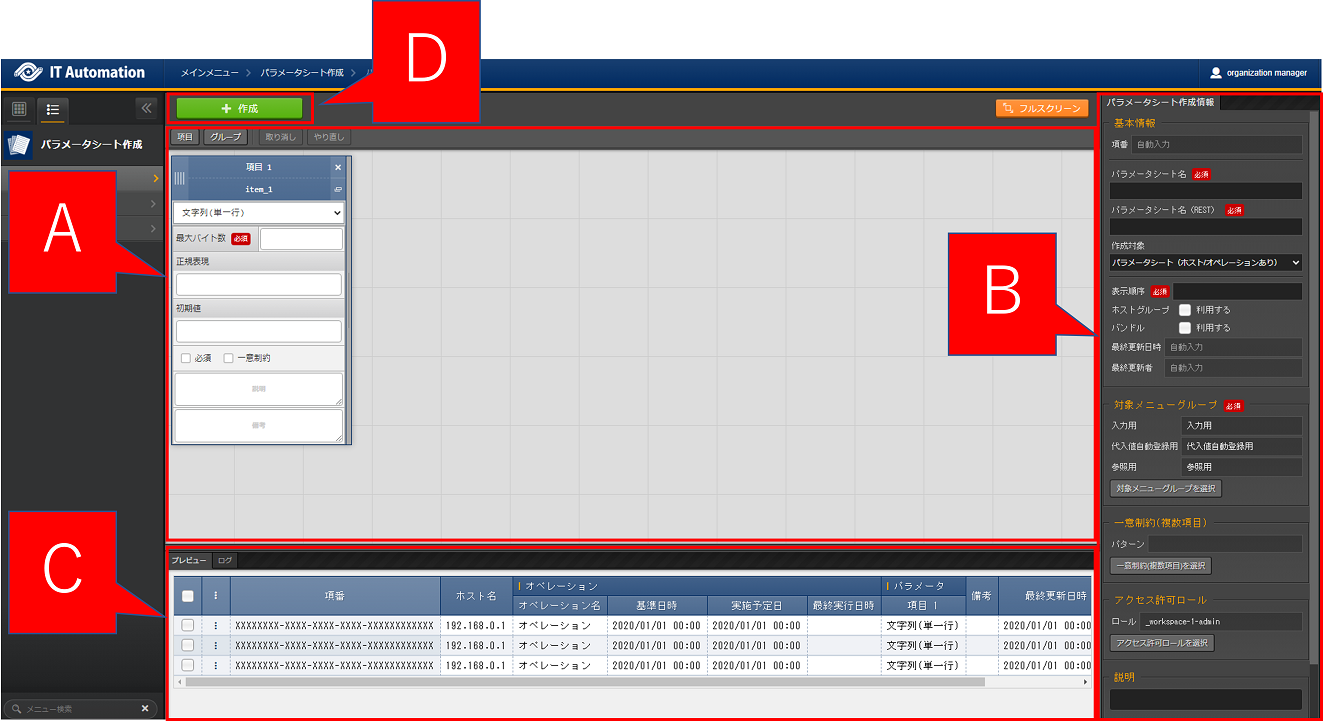
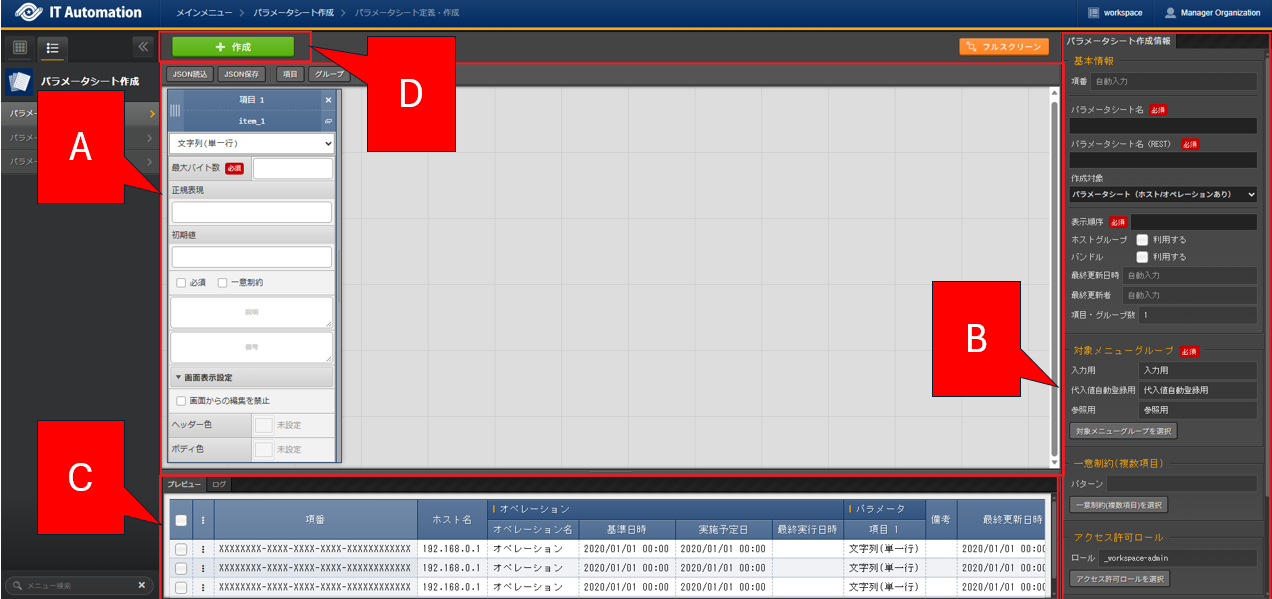
左メニューの表示・非表示機能がほしい #2667  【パラメータシート作成】項目単位の入力制御および表示色設定の追加 #2987

diff --git a/src/ja/2.10/manuals/create_param/menu_creation.rst b/src/ja/2.10/manuals/create_param/menu_creation.rst
@@ -665,6 +665,43 @@
    +-----------------------------+---------------------------------------------------------------+
    | 備考                        | 備考欄を入力します。                                          |
    +-----------------------------+---------------------------------------------------------------+
+   | 画面表示設定                | 項目単位で入力制御や表示色の設定をします  ※1                  |
+   +-----------------------------+---------------------------------------------------------------+
+
+| ※1 画面表示設定は項目単位で表示色の設定や入力制御を設定する項目です。
+
+-  | 表示色設定
+ 
+   .. figure:: /images/ja/menu_creation/menu_definition_and_create/menu_display_setting.png
+      :width: 5.90486in
+      :height: 1.59306in
+      :align: left
+      :alt: 表示色設定
+      
+      表示色設定
+
+
+-  | 画面からの編集を禁止をONにした場合、編集画面からの編集が出来なくなります。
+     
+   .. figure:: /images/ja/menu_creation/menu_definition_and_create/menu_display_setting1.png
+      :width: 5.90486in
+      :height: 1.59306in
+      :align: left
+      :alt: 画面制御設定
+
+      画面制御設定
+
+   .. figure:: /images/ja/menu_creation/menu_definition_and_create/menu_display_setting2.gif
+      :width: 5.90486in
+      :height: 1.59306in
+      :align: left
+      :alt: 画面制御設定（パラメータシート編集画面）
+
+      画面制御設定（パラメータシート編集画面）
+
+
+   .. note:: | 画面からの編集を禁止する機能は、画面からのみの制限です。Excel一括登録等を用いた登録は可能です。
+
 
 (B) 「パラメータシート作成情報」タブ
 ------------------------------------

diff --git a/src/ja/2.10/manuals/it_automation_base/management_console.rst b/src/ja/2.10/manuals/it_automation_base/management_console.rst
@@ -179,11 +179,21 @@
    | 14      | エクスポート\      | メニューエクスポート・インポート時に、ロール・メニュー\ |
    |         | 権限チェック       | 紐付の権限をチェックするかどうかを設定できます。        |
    +---------+--------------------+---------------------------------------------------------+
+   | 15      | メニュー表示       | メニュー表示、非表示の設定ができます。                  |
+   |         |                    |                                                         |
+   |         |                    | | ・true or 空白 → 表示                                 |
+   |         |                    | | ・false → 非表示                                      |
+   +---------+--------------------+---------------------------------------------------------+
+
 
 .. warning::
    - | メニュー名称は\ **一意**\ である必要があります。
    - | ソートキーはJSON形式の表記で設定する必要があります。
    - | エクスポート権限チェックは、通常は初期状態のまま使用してください。変更する場合の影響は :ref:`menu_export_import_permission` を参照してください。
+
+.. note::
+   - | メニューを非表示にした場合でも、権限設定はそのまま保持されます。
+   - | 非表示にした場合、画面上からは参照できなくなりますが、URLを入力すれば、非表示にしたメニューへアクセスが可能です。
 
 .. note::
    - | Excel出力最大行数は0～1048576まで設定可能です。
